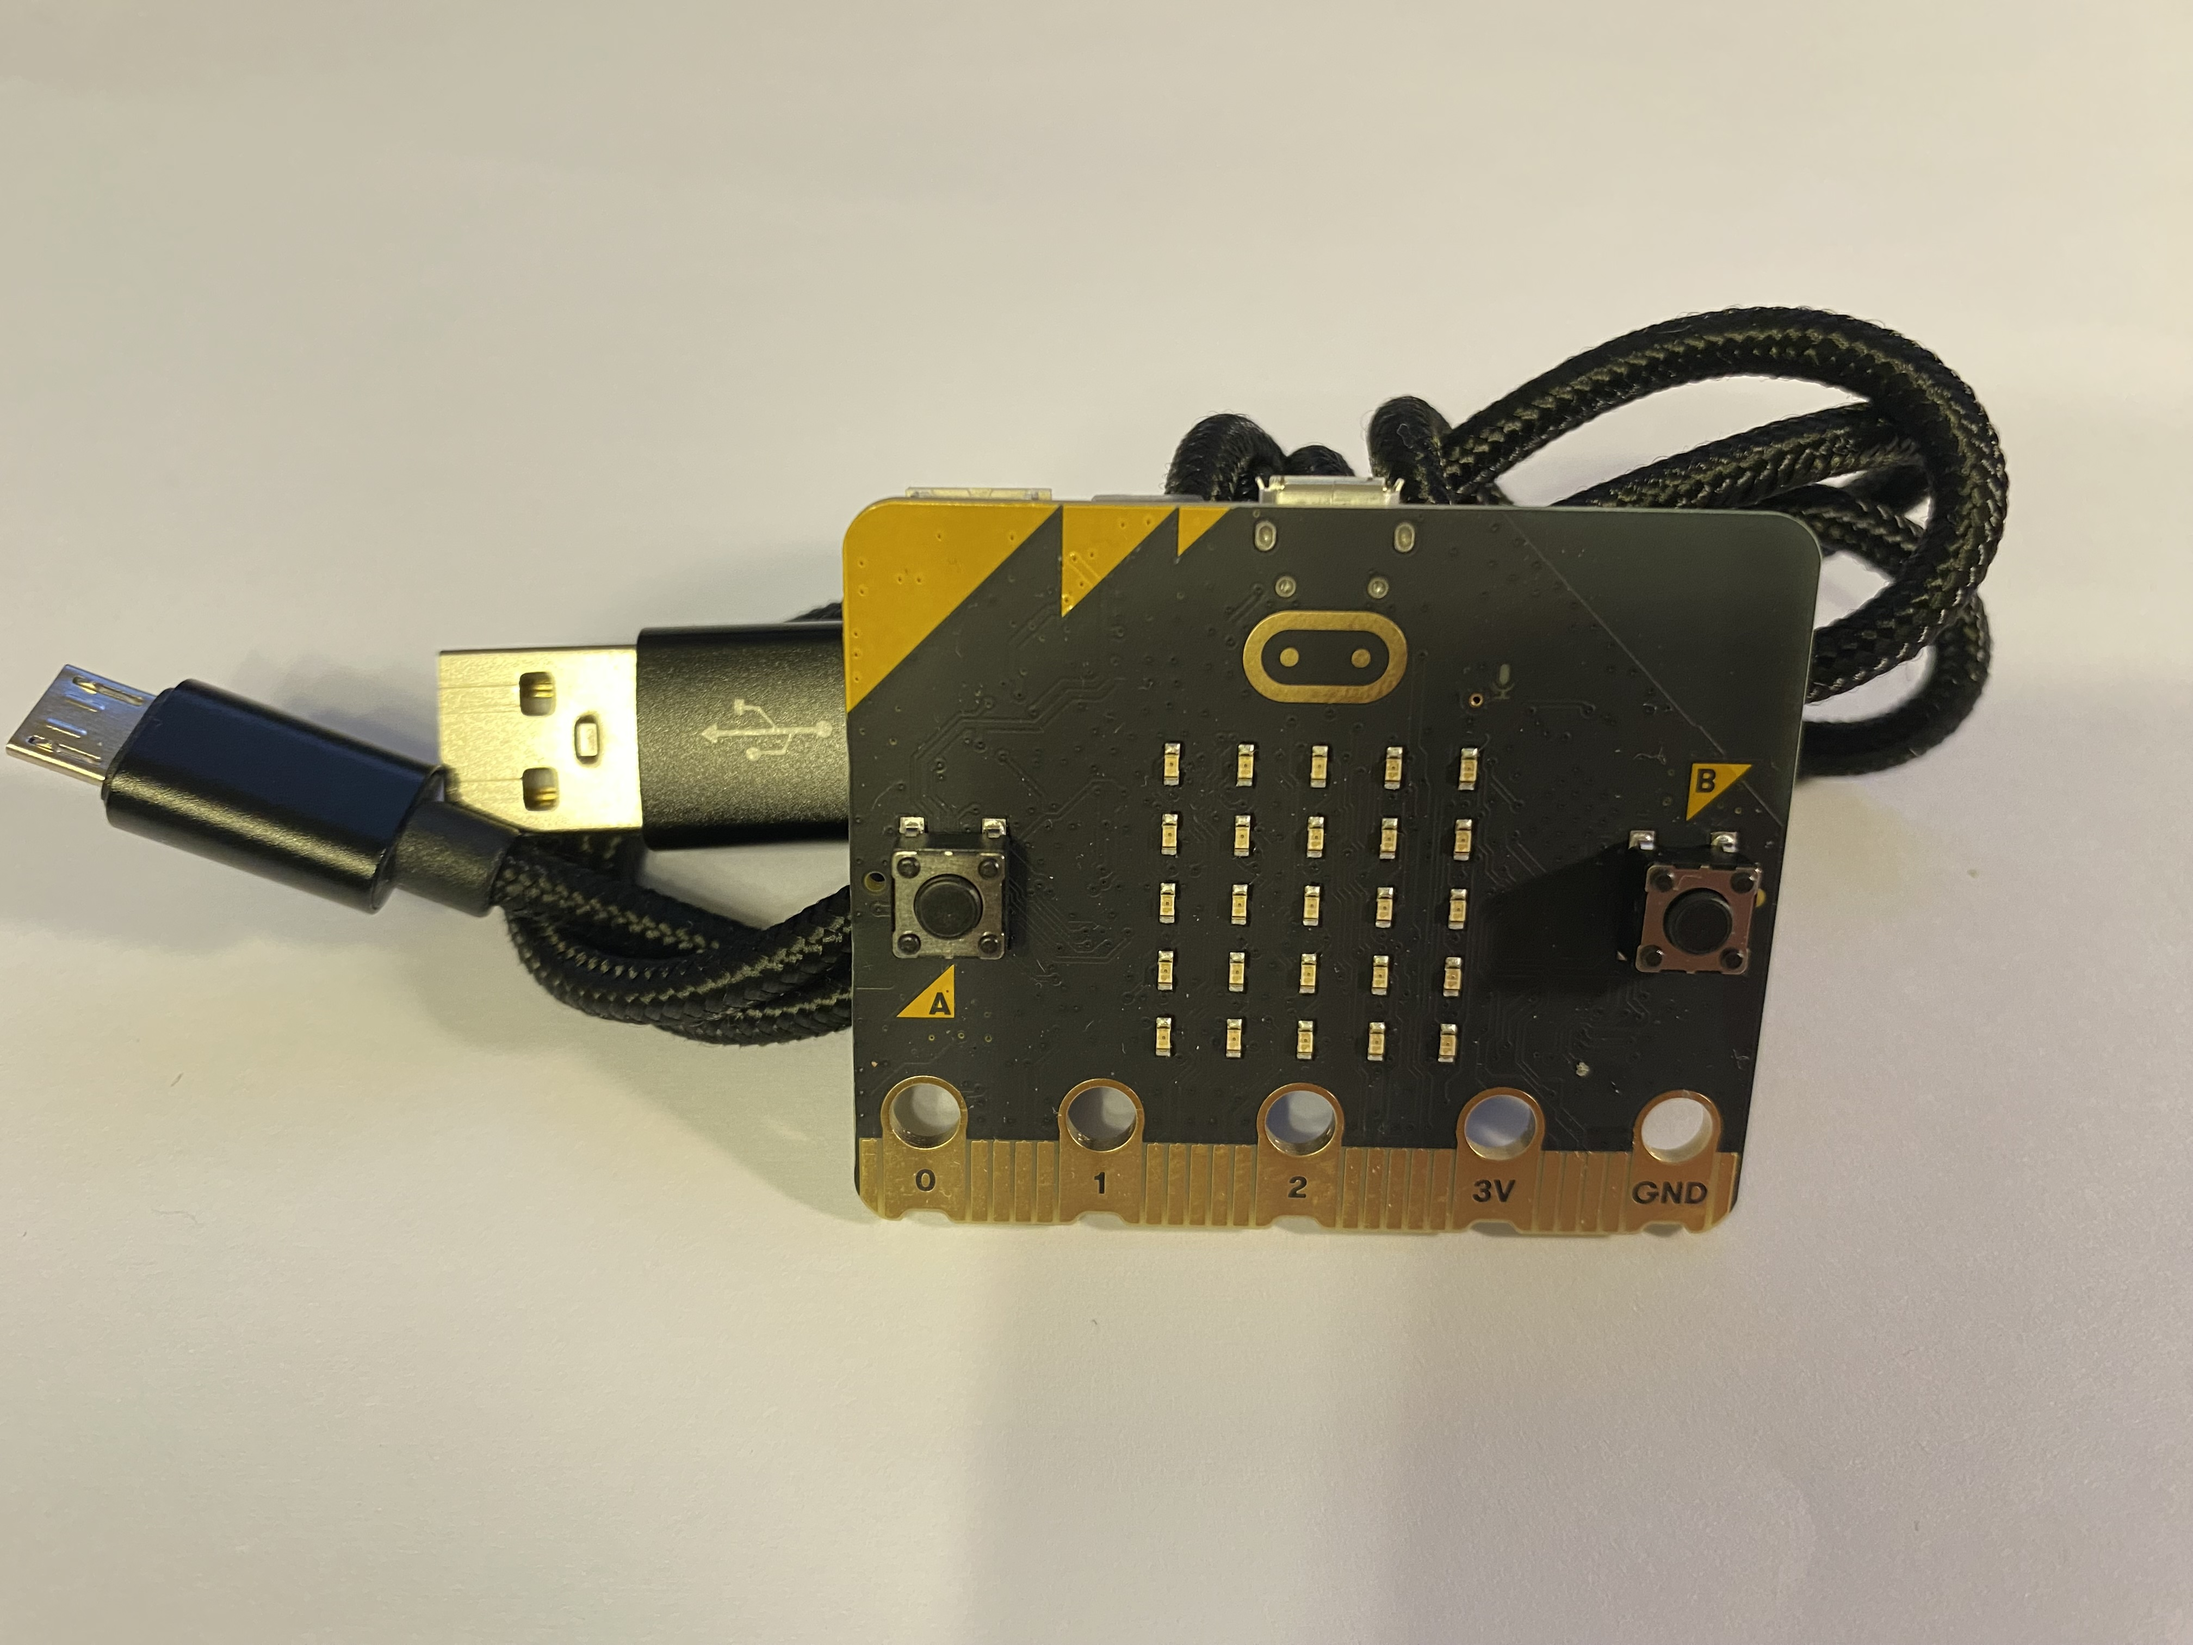
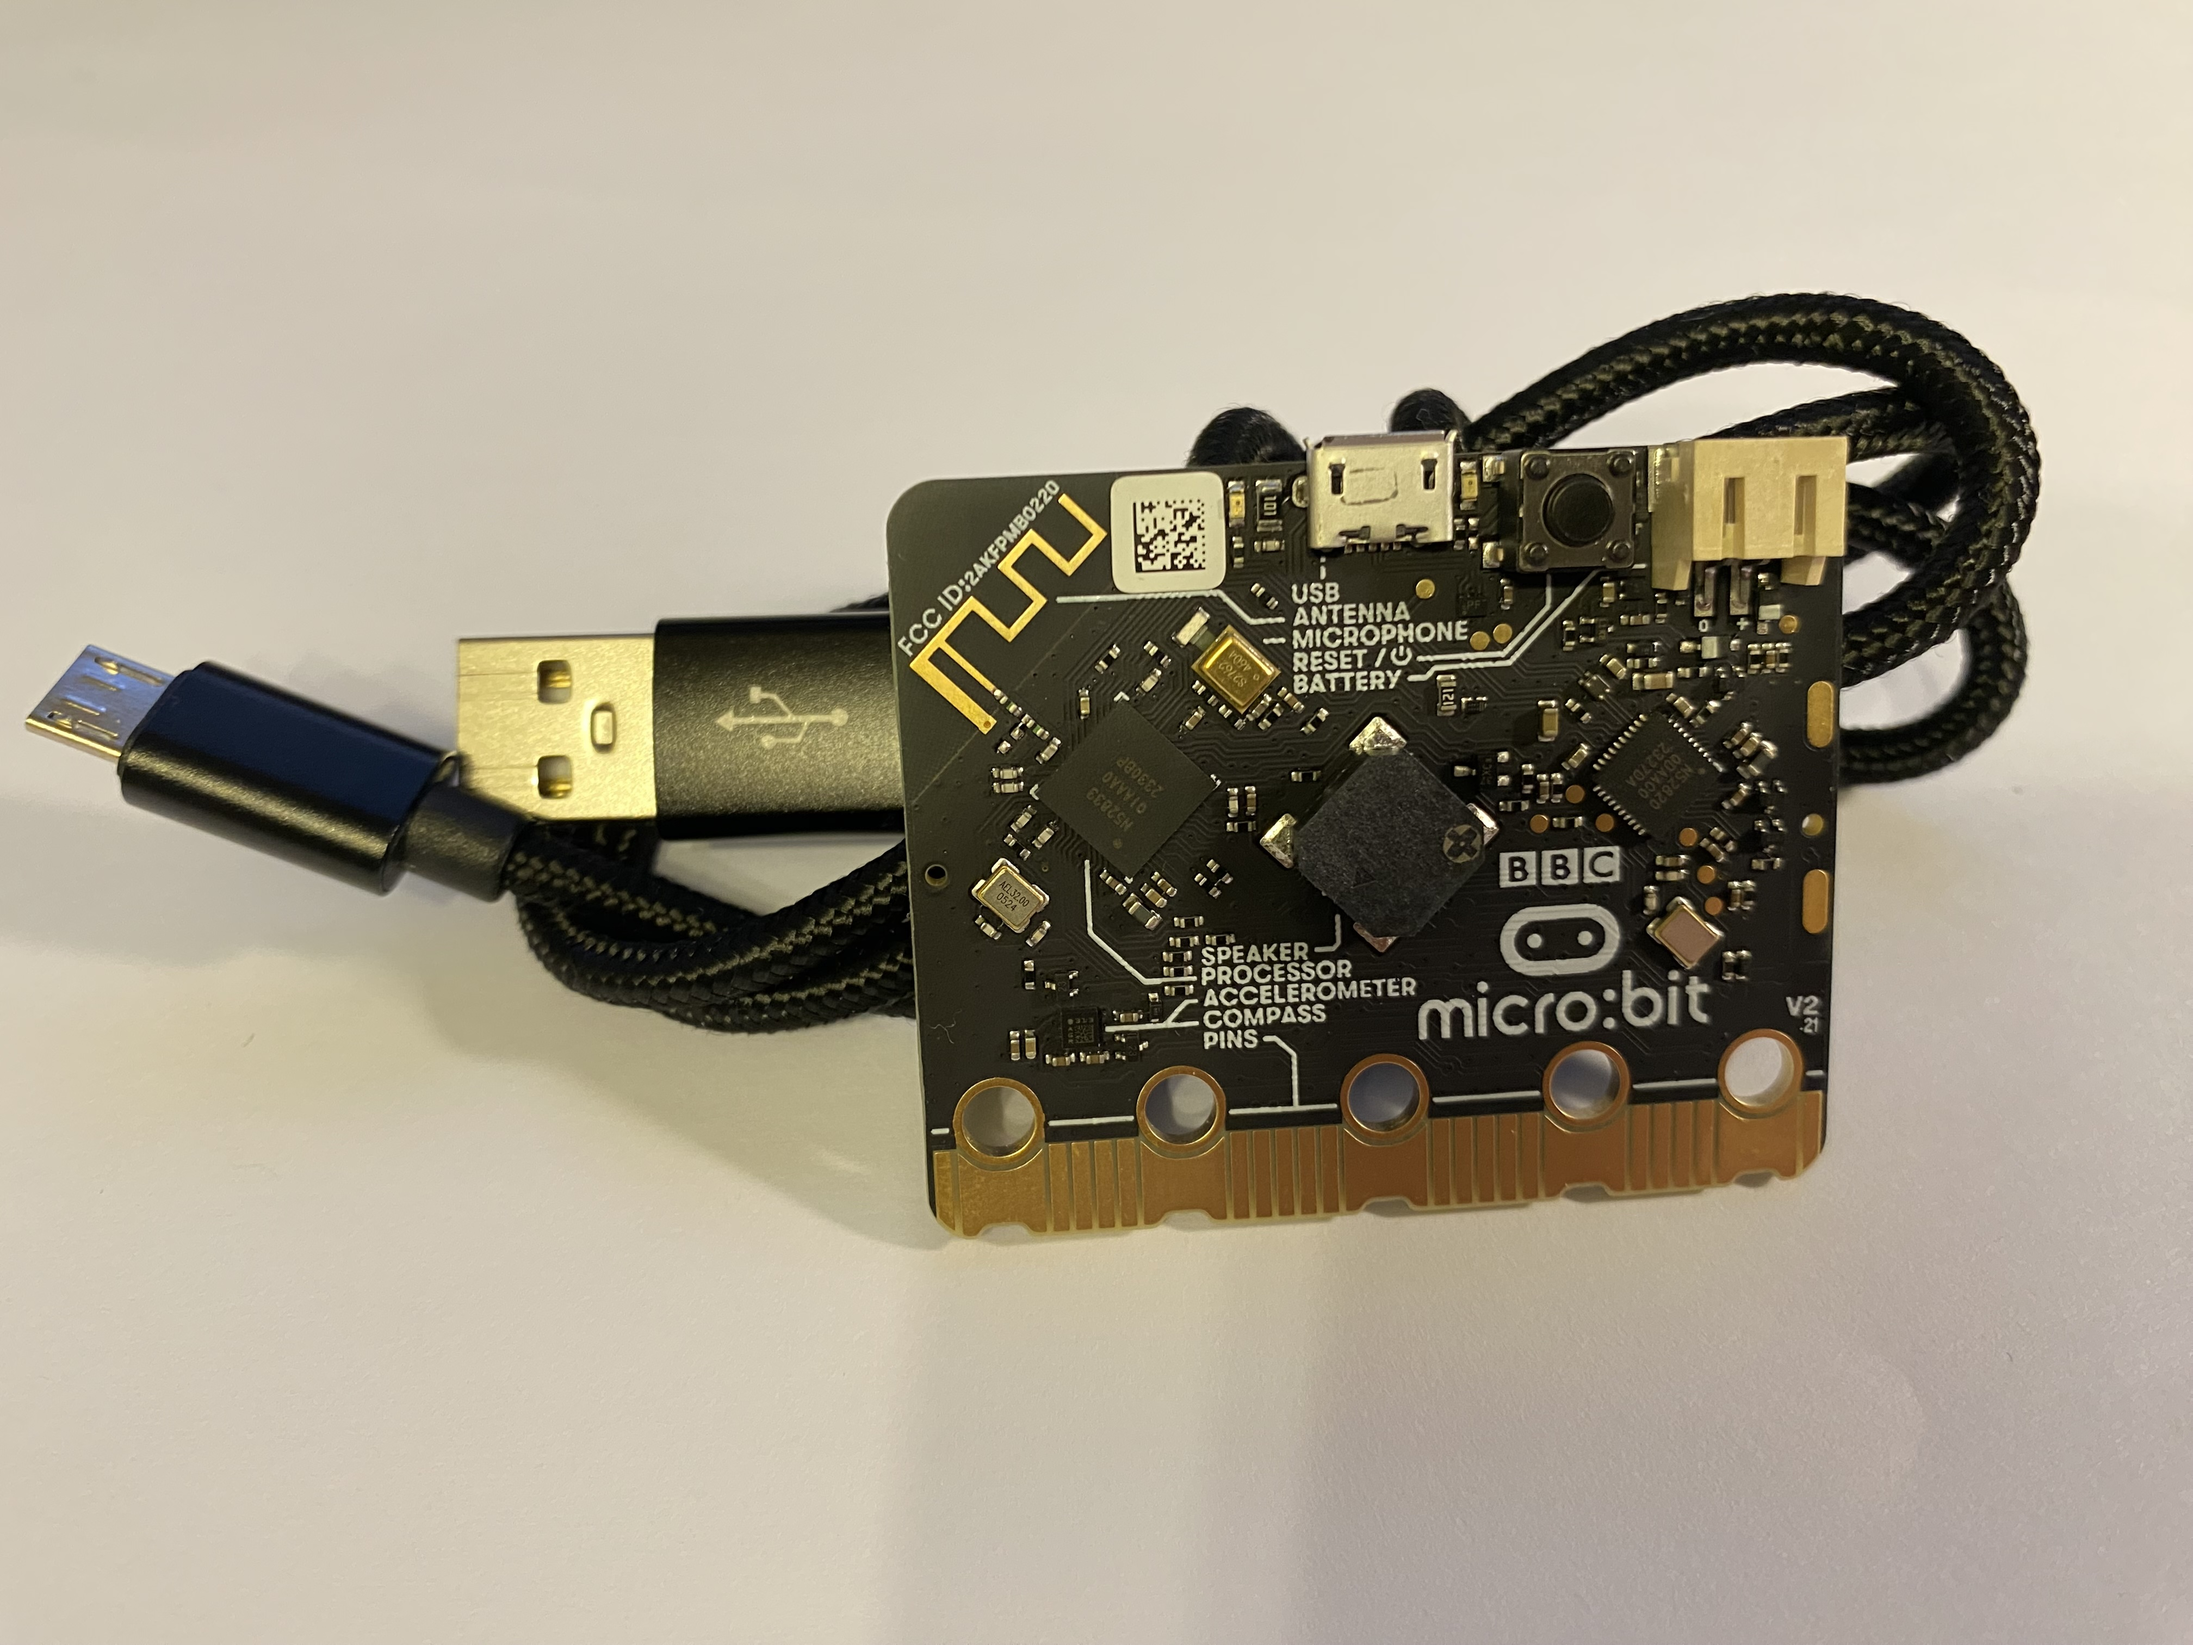
docs: fixed the inversion error of mb2 front and back

Changed region(s): [[0.0, 0.1554, 1.0, 0.7771]]

diff --git a/ch01/ch01.md b/ch01/ch01.md
@@ -123,11 +123,11 @@ Next, let me introduce an exciting device—the **micro:bit v2 development board
 
 ![f1-2.jpg](./f1-2.jpg)
 
-Figure 1-2: The front view of the micro:bit v2, featuring the product name, integrated chips, reset button, and USB micro data cable
+Figure 1-2: The front of the micro:bit v2, showing the 5×5 LED matrix and buttons on both sides
 
 ![f1-3.jpg](./f1-3.jpg)
 
-Figure 1-3 The back of the micro:bit v2, showing the 5×5 LED matrix and buttons on both sides
+Figure 1-3 The back view of the micro:bit v2, featuring the product name, integrated chips, reset button, and USB micro data cable
 
 It all began with a group of creative engineers at the British Broadcasting Corporation (BBC). Noticing how children were absorbed in mobile phone games but showed little interest in creating technology, they had an idea: why not design a simple, fun gadget that would let children experience the joy of creation? This led to the micro:bit v1. In 2015, they distributed this small device as a special gift to one million British secondary school students. It proved wildly popular and quickly spread worldwide.
 
@@ -391,11 +391,11 @@ target = "thumbv7em-none-eabihf"
 # other lines omitted
 ```
 
-This configuration tells cargo to use `thumbv7em-none-eabihf` as the global compilation target. All build operations (including cargo build and cargo run) will target this platform. The Rust compiler will generate code for the ARM Cortex-M4 processor core ([located inside the Nordic nRF52833 microcontroller chip on the micro:bit v2 board's left front](https://tech.microbit.org/hardware/), as shown in Figure 1-4). This allows your program to run directly on the micro:bit v2 hardware instead of a desktop computer. The compiler stores the resulting binary files in the target/thumbv7em-none-eabihf/ folder.
+This configuration tells cargo to use `thumbv7em-none-eabihf` as the global compilation target. All build operations (including cargo build and cargo run) will target this platform. The Rust compiler will generate code for the ARM Cortex-M4 processor core ([located inside the Nordic nRF52833 microcontroller chip on the micro:bit v2 board's left back](https://tech.microbit.org/hardware/), as shown in Figure 1-4). This allows your program to run directly on the micro:bit v2 hardware instead of a desktop computer. The compiler stores the resulting binary files in the target/thumbv7em-none-eabihf/ folder.
 
 ![f1-4.png](./f1-4.png)
 
-Figure 1-4 The ARM Cortex-M4 processor core is located inside the Nordic nRF52833 microcontroller chip on the front left of the micro:bit v2 board
+Figure 1-4 The ARM Cortex-M4 processor core is located inside the Nordic nRF52833 microcontroller chip on the back left of the micro:bit v2 board
 
 🔎How do the micro:bit v2 board, Nordic nRF52833 microcontroller (MCU), and ARM Cortex-M4 processor core work together?
 
